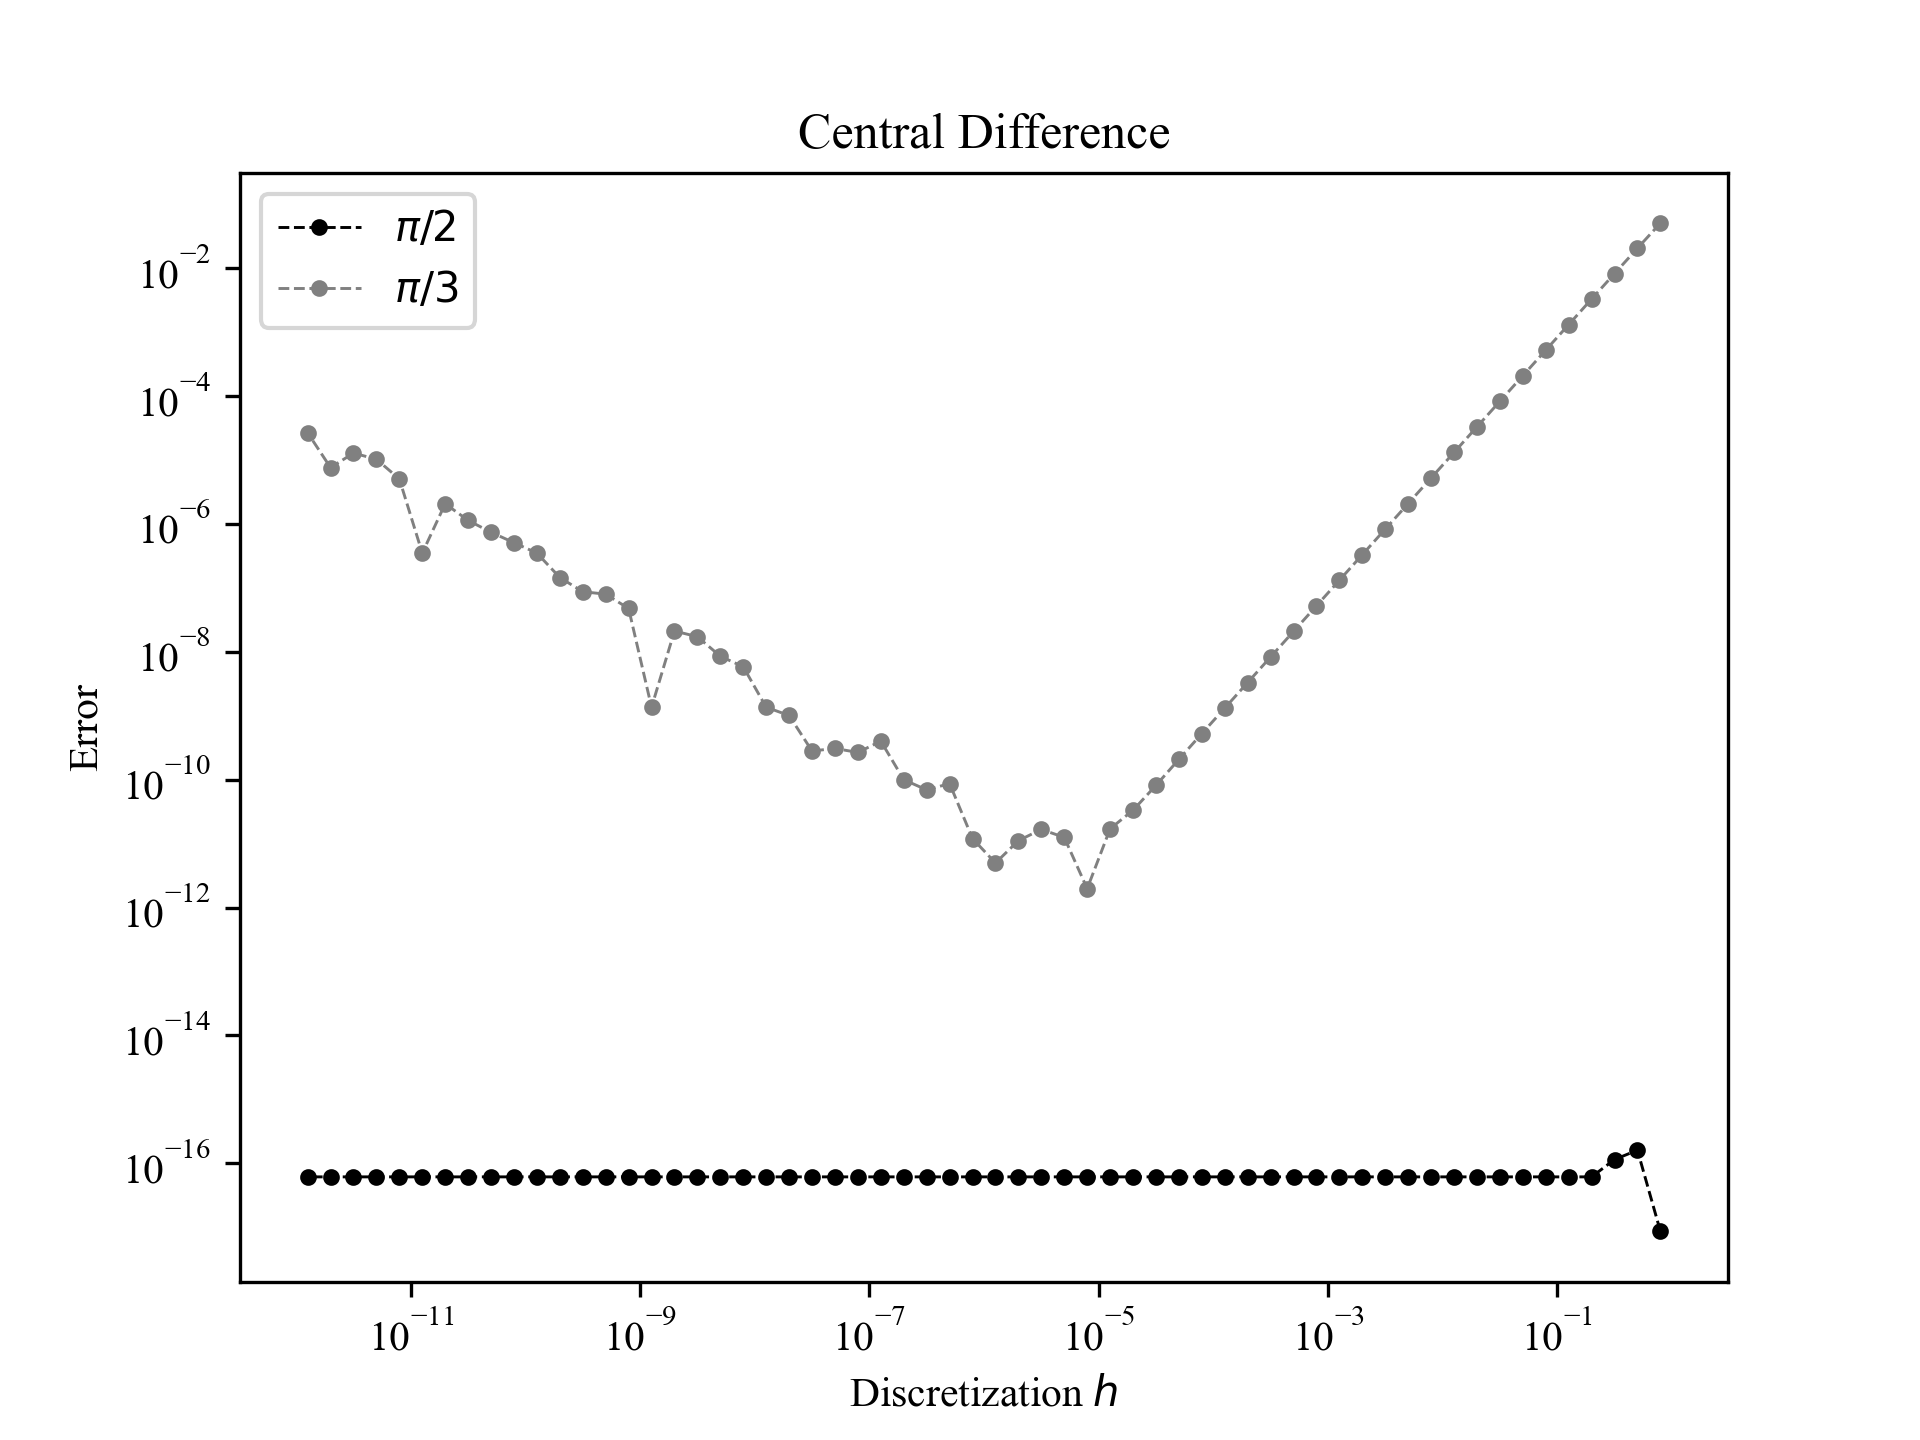
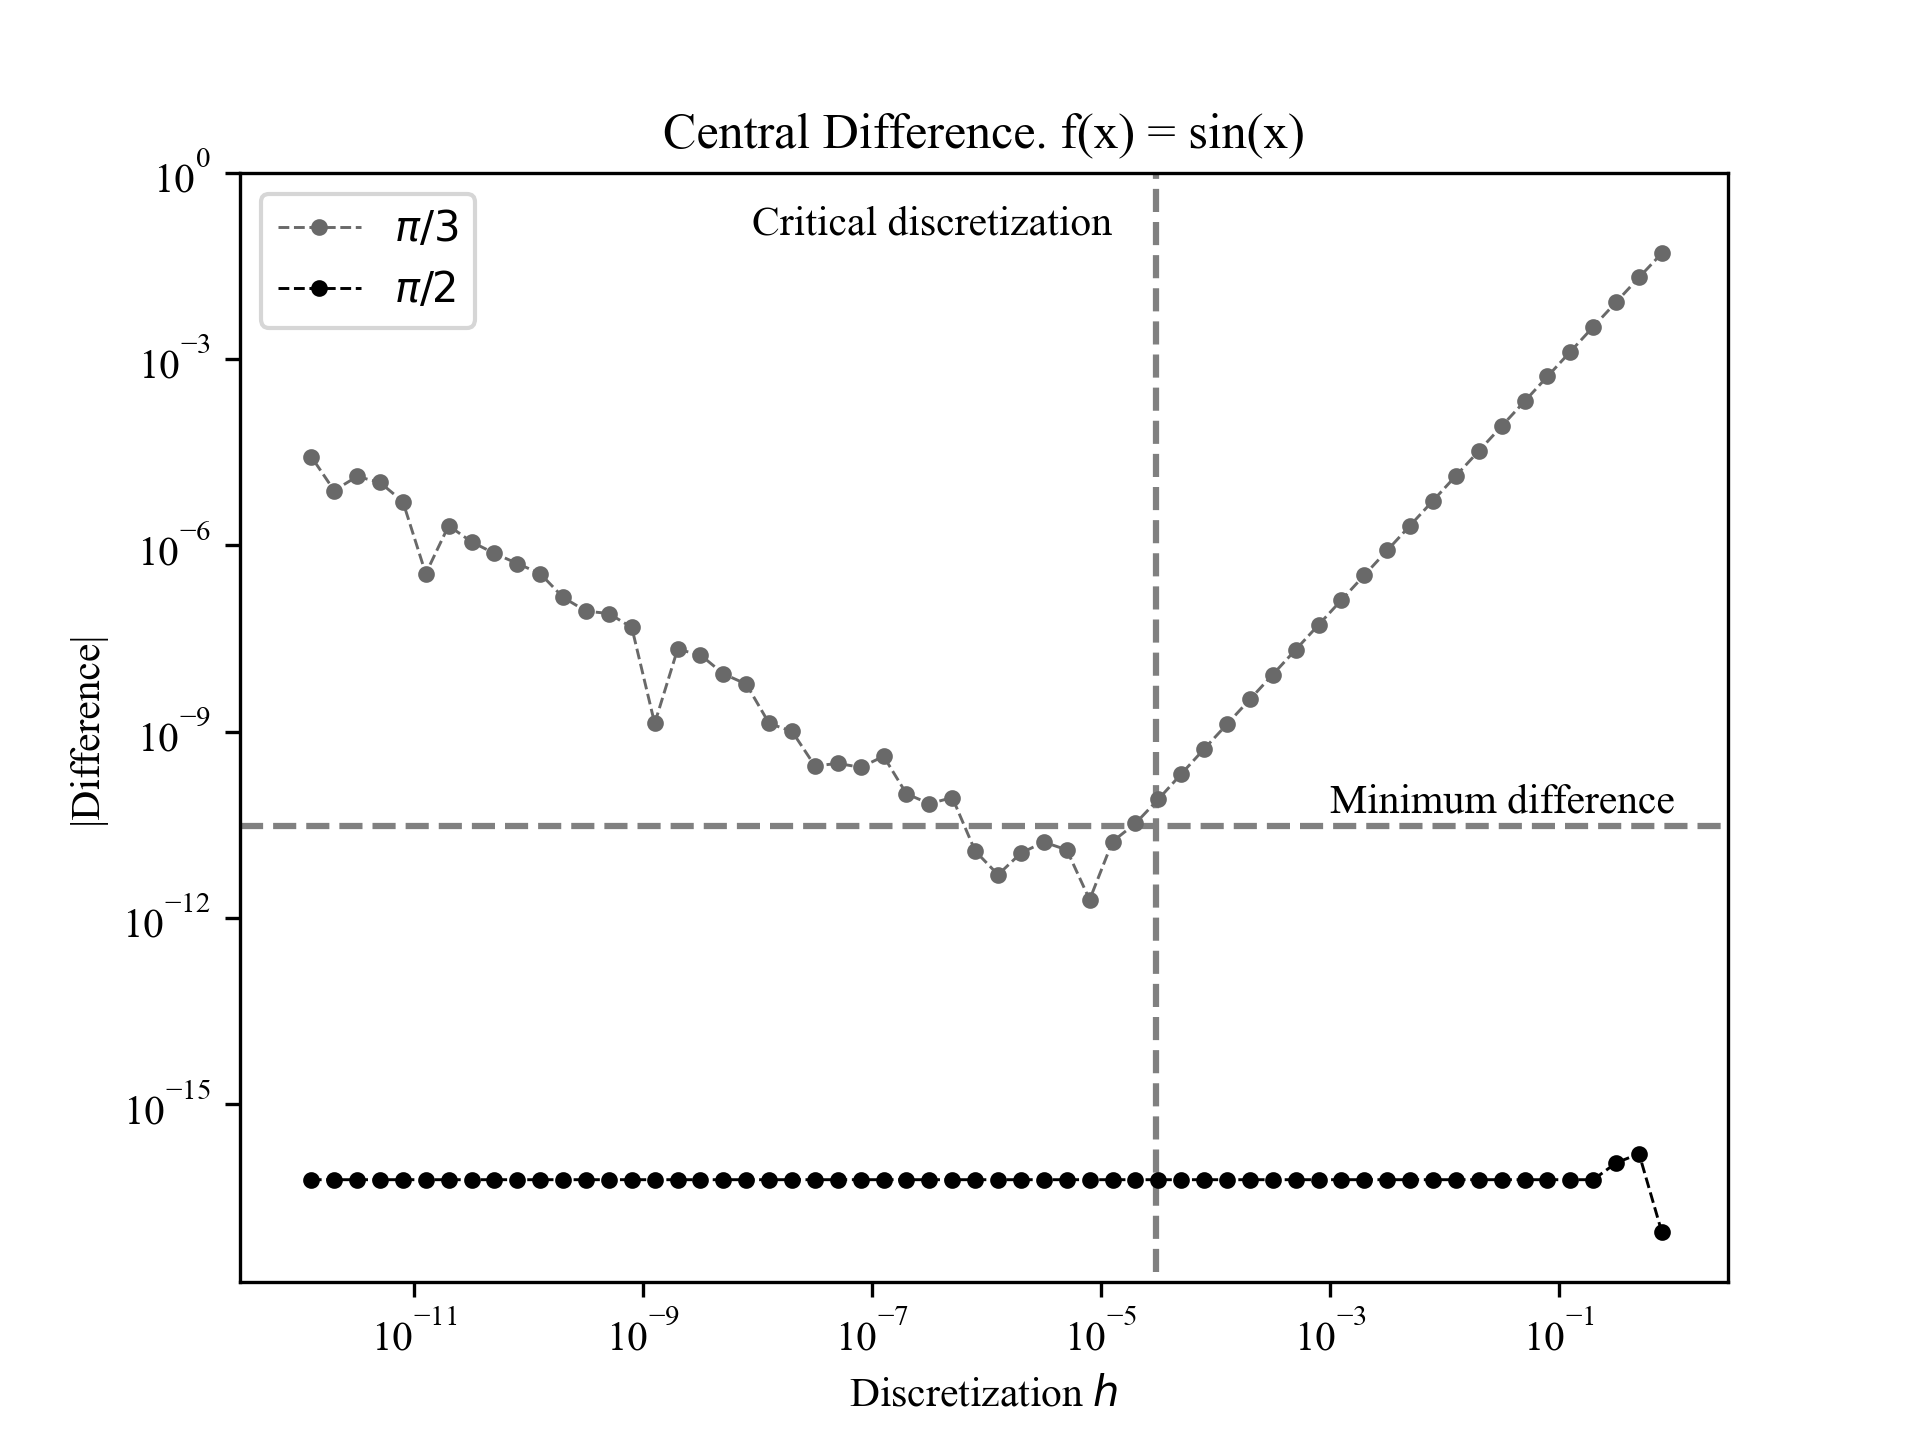
update

diff --git a/guia1/integration2.py b/guia1/integration2.py
@@ -1,5 +1,6 @@
 import numpy as np
 import matplotlib.pyplot as plt
+plt.rcParams.update({"font.family": "times new roman"})
 
 def trap_int(INTERVAL, f, N):
     integral = 0
@@ -8,9 +9,11 @@ def trap_int(INTERVAL, f, N):
     if type(f(x_values)) == int:
         y_values = np.full(len(x_values), f(1))
     else: y_values = f(x_values)
-    weights = np.ones(N, dtype=np.float64)/2
-    for i in range(1, N):
-        integral += y_values[i-1]*weights[i-1] + y_values[i]*weights[i]
+    # weights = np.ones(N, dtype=np.float64)/2
+    integral += sum(y_values[1:-1])
+    integral += (y_values[0] + y_values[-1])/2 
+    # for i in range(1, N):
+    #     integral += y_values[i-1]*weights[i-1] + y_values[i]*weights[i]
     return integral*h
 
 def simp_int(INTERVAL, f, N):
@@ -21,14 +24,18 @@ def simp_int(INTERVAL, f, N):
     if type(f(x_values)) == int:
         y_values = np.full(len(x_values), f(1))
     else: y_values = f(x_values)
-    weights = np.ones(N, dtype=np.float64)
-    weights[0::2] = 1/3
-    weights[1::2] = 4/3
-    for i in range(1, N, 2):
-        integral += y_values[i-1]*weights[i-1] + y_values[i]*weights[i] + y_values[i+1]*weights[i+1]
-    return integral*h
+    # weights = np.ones(N, dtype=np.float64)
+    integral += 2*sum(y_values[2:-2:2])
+    integral += 4*sum(y_values[1:-1:2])
+    integral += y_values[0] + y_values[-1]
+    # weights[0::2] = 1/3
+    # weights[1::2] = 4/3
+    # for i in range(1, N, 2):
+    #     integral += y_values[i-1]*weights[i-1] + y_values[i]*weights[i] + y_values[i+1]*weights[i+1]
+    return integral*h/3
 
-N = tuple([int(j*10**i) for i in range(1, 7) for j in range(1, 10)])
+N = tuple([j*10**i for i in range(1, 7) for j in range(1, 10)])
+
 error_trap1 = []
 error_simp1 = []
 error_trap2 = []
@@ -37,64 +44,65 @@ error_simp2 = []
 def func1(x):
     return x*x*x*x*x
 def func2(x):
-    return 1
+    return 1/(2*x**(1/2))
 
 for n in N:
-    # trap = trap_int([0, 1], func1, n)
-    # simp = simp_int([0, 1], func1, n)
-    trap2 = trap_int([0, 1], func2, n)
-    simp2 = simp_int([0, 1], func2, n)
+    trap = trap_int([0, 1], func1, n)
+    simp = simp_int([0, 1], func1, n)
+    # trap2 = trap_int([0.0000001, 1], func2, n)
+    # simp2 = simp_int([0.0000001, 1], func2, n)
     print(n)
-    # error_trap1.append(abs( (trap - 1/6)/(1/6) ))
-    # error_simp1.append(abs( (simp - 1/6)/(1/6) ))
-    error_trap2.append(abs( (trap2 - 1)/1 ))
-    error_simp2.append(abs( (simp2 - 1)/1 ))
+    error_trap1.append(abs( (trap - 1/6)/(1/6) ))
+    error_simp1.append(abs( (simp - 1/6)/(1/6) ))
+    # error_trap2.append(abs( (trap2 - 1)/1 ))
+    # error_simp2.append(abs( (simp2 - 1)/1 ))
 
-
-# error_trap1 = np.array(error_trap1) / max(error_trap1)
-# error_simp1 = np.array(error_simp1) / max(error_simp1)
-error_trap2 = np.array(error_trap2) / max(error_trap2)
-error_simp2 = np.array(error_simp2) / max(error_simp2)
-
-
-# print(np.log(error_trap1[1:])/(np.log(N[1:]) - np.log(N[0])))
-# print(np.log(error_simp1[1:])/(np.log(N[1:]) - np.log(N[0])))
-print(np.log(error_trap2[1:])/(np.log(N[1:]) - np.log(N[0])))
-print(np.log(error_simp2[1:])/(np.log(N[1:]) - np.log(N[0])))
 
 plt.grid()
-
-# plt.loglog(N, error_trap1,
-#             label="Trapeze method", 
-#             marker="o", 
-#             markersize=3,
-#             linestyle="dashed",
-#             linewidth=0.7,
-#             c="k")
-# plt.loglog(N, error_simp1,
-#             label="Simpson method", 
-#             marker="o", 
-#             markersize=3,
-#             linestyle="dashed",
-#             linewidth=0.7,
-#             c="gray")
-plt.loglog(N, error_trap2,
+plt.title("Integration methods. f(x) = $x^5$")
+plt.vlines(1.05E6, 6E-17, 1, color="gray", linestyle="dashed", linewidth=0.8)
+plt.text(6.1E5, 1E-8, "Optimum N\nTrapeze", rotation="vertical")
+plt.hlines(1.6E-12, 2, 39000000, color="gray", linestyle="dashed", linewidth=0.8)
+plt.text(2.7, 4E-13, "Minimum error\nTrapeze")
+plt.vlines(2300, 6E-17, 1, color="gray", linestyle="-.", linewidth=0.8)
+plt.text(1300, 3E-5, "Optimum N\nSimpson", rotation="vertical")
+plt.hlines(6.5E-14, 2, 39000000, color="gray", linestyle="-.", linewidth=0.8)
+plt.text(50, 2E-14, "Minimum error\nSimpson")
+plt.ylim(6E-17, 1)
+plt.xlim(2, 39000000)
+plt.loglog(N, error_trap1,
             label="Trapeze method", 
             marker="o", 
             markersize=3,
             linestyle="dashed",
             linewidth=0.7,
             c="k")
-plt.loglog(N, error_simp2,
+plt.loglog(N, error_simp1,
             label="Simpson method", 
             marker="o", 
             markersize=3,
             linestyle="dashed",
             linewidth=0.7,
-            c="gray")
-plt.xlabel("Iterations")
-plt.ylabel("relative error")
+            c="dimgrey")
+# plt.loglog(N, error_trap2,
+#             label="Trapeze method", 
+#             marker="o", 
+#             markersize=3,
+#             linestyle="dashed",
+#             linewidth=0.7,
+#             c="k")
+# plt.loglog(N, error_simp2,
+#             label="Simpson method", 
+#             marker="o", 
+#             markersize=3,
+#             linestyle="dashed",
+#             linewidth=0.7,
+#             c="gray")
+plt.xlabel("Iterations N")
+plt.ylabel("|numerical - exact| / |exact|")
 plt.legend()
+plt.savefig("integration.png", dpi=300)
+# exit()
 plt.show()
 
 

diff --git a/guia1/finiteDerivative.py b/guia1/finiteDerivative.py
@@ -17,6 +17,17 @@ exact = lambda x: np.cos(x)
 a = np.pi/2
 b = np.pi/3
 
+plt.vlines(4E-8, 2E-18, 2, color="gray", linestyle="dashed")
+plt.text(8E-8, 3E-17, "Critical discretization") 
+plt.hlines(3E-8, 3E-13, 3, color="gray", linestyle="dashed")
+plt.text(1E-3, 5E-8, "Minimum difference")
+plt.loglog( h, abs(exact(b) - fwd_diff(b, y, h)), 
+            c="dimgrey", 
+            label="$\pi/3$",
+            marker="o", 
+            markersize=3,
+            linestyle="dashed",
+            linewidth=0.7)
 plt.loglog( h, abs(exact(a) - fwd_diff(a, y, h)), 
             c="k", 
             label="$\pi/2$",
@@ -24,20 +35,30 @@ plt.loglog( h, abs(exact(a) - fwd_diff(a, y, h)),
             markersize=3,
             linestyle="dashed",
             linewidth=0.7)
-plt.loglog( h, abs(exact(b) - fwd_diff(b, y, h)), 
-            c="gray", 
+plt.legend()
+plt.title("Forward Difference. f(x) = sin(x)")
+plt.xlabel("Discretization $\it{h}$")
+plt.ylabel("|Difference|")
+plt.ylim(9E-18, 2)
+plt.xlim(3E-13, 3)
+# for i in range(len(h)):
+#     print(h[i], list(abs(exact(a) - fwd_diff(a, y, h)))[i], list(abs(exact(b) - fwd_diff(b, y, h)))[i])
+plt.savefig("fwd_diff.png", dpi=300)
+plt.show()
+# exit()
+plt.vlines(3E-5, 2E-18, 1, color="gray", linestyle="dashed")
+plt.hlines(3E-11, 3E-13, 3, color="gray", linestyle="dashed")
+plt.text(1E-3, 5E-11, "Minimum difference")
+plt.text(9E-9, 1E-1, "Critical discretization")
+plt.ylim(1.4E-18, 1)
+plt.xlim(3E-13, 3)
+plt.loglog( h, abs(exact(b) - ctr_diff(b, y, h)), 
+            c="dimgrey", 
             label="$\pi/3$",
             marker="o", 
             markersize=3,
             linestyle="dashed",
             linewidth=0.7)
-plt.legend()
-plt.title("Forward Difference")
-plt.xlabel("Discretization $\it{h}$")
-plt.ylabel("Error")
-plt.savefig("fwd_diff.png", dpi=300)
-plt.show()
-
 plt.loglog( h, abs(exact(a) - ctr_diff(a, y, h)), 
             c="k", 
             label="$\pi/2$",
@@ -45,16 +66,12 @@ plt.loglog( h, abs(exact(a) - ctr_diff(a, y, h)),
             markersize=3,
             linestyle="dashed",
             linewidth=0.7)
-plt.loglog( h, abs(exact(b) - ctr_diff(b, y, h)), 
-            c="gray", 
-            label="$\pi/3$",
-            marker="o", 
-            markersize=3,
-            linestyle="dashed",
-            linewidth=0.7)
 plt.legend()
-plt.title("Central Difference")
+plt.title("Central Difference. f(x) = sin(x)")
 plt.xlabel("Discretization $\it{h}$")
-plt.ylabel("Error")
+plt.ylabel("|Difference|")
+# for i in range(len(h)):
+#     print(h[i], list(abs(exact(a) - ctr_diff(a, y, h)))[i], list(abs(exact(b) - ctr_diff(b, y, h)))[i])
 plt.savefig("ctr_diff.png", dpi=300)
+# print(plt.ylim())
 plt.show()

diff --git a/guia1/rootFinder.py b/guia1/rootFinder.py
@@ -3,7 +3,6 @@ from scipy.misc import derivative
 import matplotlib.pyplot as plt
 plt.rcParams.update({"font.family": "times new roman"})
 
-
 def exact_function(x):
     return np.exp(x)*np.log(x) - x**2
 
@@ -35,34 +34,41 @@ def bisection(f, interval, error=1E-8):
         interval_error.append(abs(a-b))
 
     return abs(a+b)/2, interval_error
-    
-b = 20
-x_0 = 0.1
+
+plt.hlines(1E-8, 1, 60, linestyles="dashed", color="gray")
+b = 50
 limits = np.array([0.1, b])
 bisection_root, bisection_error = bisection(exact_function, limits)
-print(f"bisected root: {bisection_root}")
-newton_root, newton_error = newton(exact_function, x_0)
-print(f"newton root: {newton_root}")
-
 plt.title("Root finder algorithms")
-plt.loglog(range(1, len(bisection_error) +1), 
+plt.semilogy(range(1, len(bisection_error) +1), 
             bisection_error, 
             color="k", 
-            label=f"Bisection method\ninterval [0.1, {b}]", 
+            label=f"Bisection\n[0.1, {b}]", 
             marker="o", 
             markersize=3,
             linestyle="dashed",
             linewidth=0.7)
-plt.loglog(range(1, len(newton_error) +1), 
-            newton_error, 
-            color="gray", 
-            label=f"newton-raphson method\n$x_0 = ${x_0}", 
-            marker="o", 
-            markersize=3,
-            linestyle="dashed",
-            linewidth=0.7)
+marker = ["^", "s", "D"]
+i = 0
+for x_0 in [0.1, 20, 50]:
+    # x_0 = 0.1
+    # print(f"bisected root: {bisection_root}")
+    newton_root, newton_error = newton(exact_function, x_0)
+    # newton_error /= max(newton_error)
+    # print(f"newton root: {newton_root}")
+    plt.semilogy(range(1, len(newton_error) +1), 
+                newton_error, 
+                color="dimgrey", 
+                label=f"NR \n$x_0 = ${x_0}", 
+                marker=marker[i], 
+                markersize=3,
+                linestyle="dashed",
+                linewidth=0.7)
+    i += 1
 plt.xlabel("Iterations")
 plt.ylabel("|Error|")
-plt.legend()
-# plt.savefig("newton.jpg", dpi=300)
-plt.show()
+plt.legend(bbox_to_anchor=(1.04, 0.5), loc="center left", borderaxespad=0)
+plt.xlim(0, 60)
+plt.text(11, 2E-8, "Minimum error")
+plt.savefig("newton.jpg", bbox_inches="tight", dpi=300)
+# plt.show()
